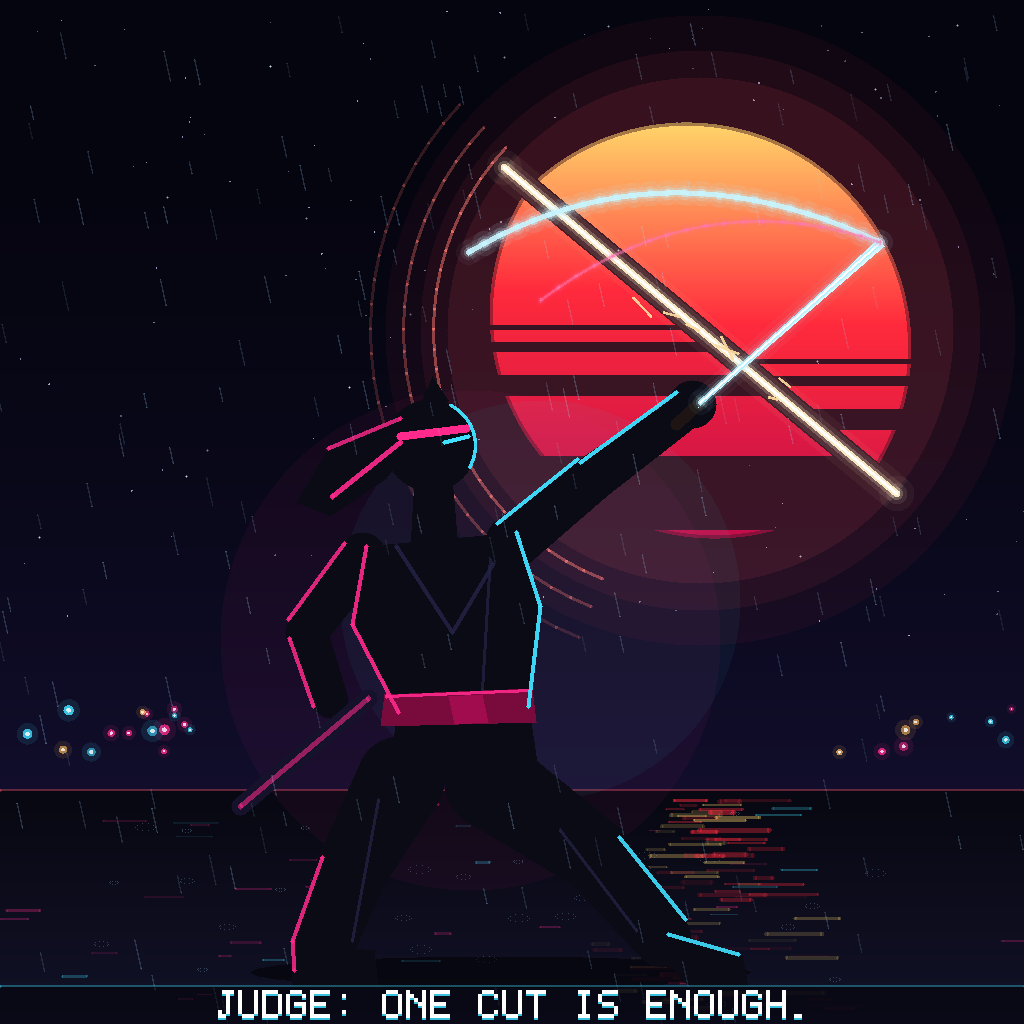
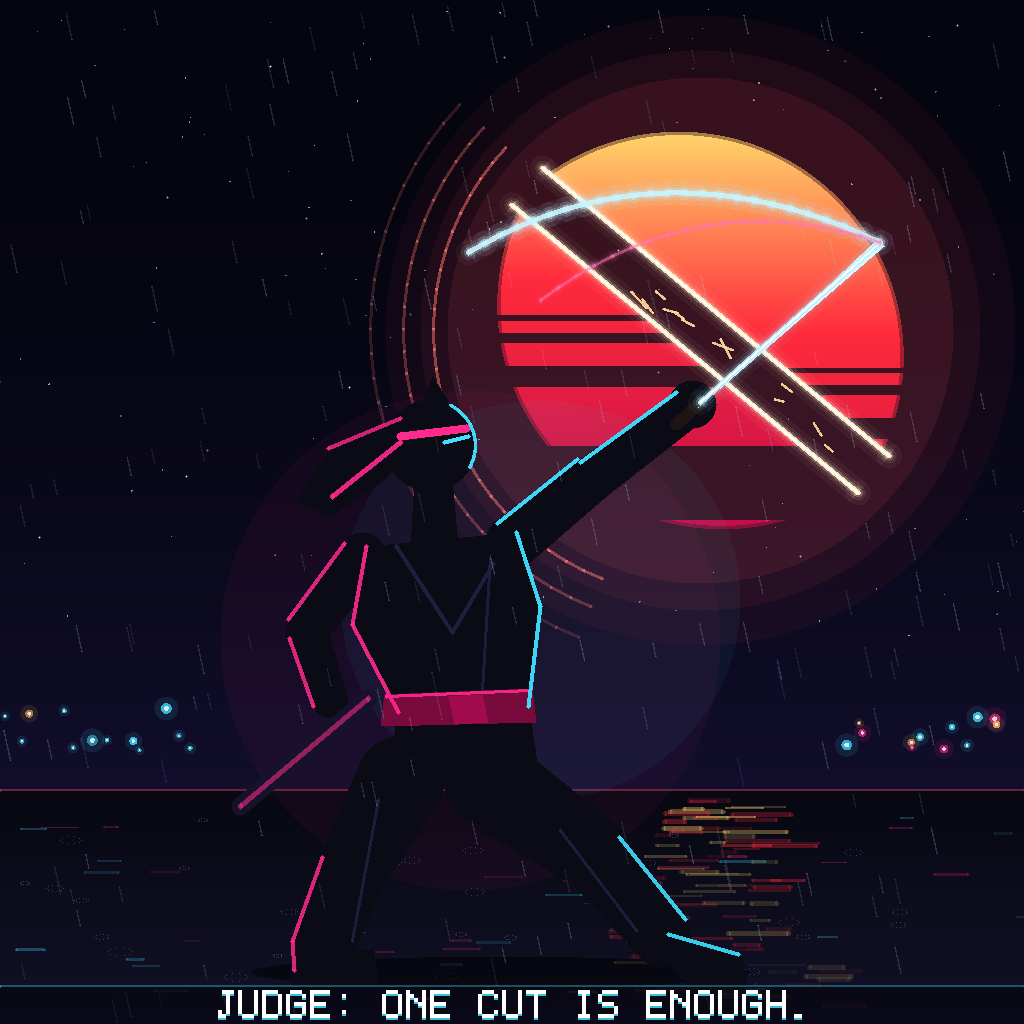
ai-excited-01: make the split sun read — wider dark gap, bright rims on both cut faces
The sun previously read as one whole disc with a slash line across it:
the bright centre glow filled the cut. Now the two halves are truly
separated: clip margin 12 -> 24px per side (48px dark-sky band between
the faces), half offset 22 -> 34px along the cut normal, the central
glow line replaced by a bright white-yellow rim on EACH cut face, and
12 light shards flying inside the dark gap (was 7). Hero, pose,
katana, text, rain, reflections, bokeh and palette untouched.

Render verified: 2 runs byte-identical, SHA-256
138657d41d07778aa09912e84ccd503d7c86800d8502264e8edc13bde2a650d6,
74800 bytes, 1024x1024, valid PNG. Split confirmed readable at full
size and at 300px.

diff --git a/main.ts b/main.ts
@@ -207,7 +207,7 @@ function drawSky() {
 const SUN = { cx: 700, cy: 330, r: 225 };
 const CUT_D = [0.77, 0.64];                 // cut direction
 const CUT_N = [0.64, -0.77];                // cut normal
-const CUT_OFF = 22;                         // half-gap between the halves
+const CUT_OFF = 34;                         // half-gap between the halves
 
 function sunColor(dx, dy, r) {
   // vertical gradient: yellow-white top -> red -> deep magenta bottom
@@ -234,9 +234,10 @@ function drawSunHalf(ox, oy, keepSign) {
       const d2 = dx * dx + dy * dy;
       if (d2 > r * r) continue;
       // clip to one side of the cut line (measured from the true centre),
-      // with a real gap so the sky shows through the split
+      // with a real gap so the sky shows through the split: 24px per side,
+      // a 48px band of dark sky between the two cut faces
       const s = (x - cx) * CUT_N[0] + (y - cy) * CUT_N[1];
-      if (s * keepSign < 12) continue;
+      if (s * keepSign < 24) continue;
       // synthwave slats: horizontal gaps, widening toward the bottom
       if (dy > r * 0.02) {
         const t = dy / r;
@@ -262,18 +263,22 @@ function drawSun() {
   const ox = CUT_N[0] * CUT_OFF, oy = CUT_N[1] * CUT_OFF;
   drawSunHalf(-ox, -oy, +1);
   drawSunHalf(ox, oy, -1);
-  // light leaking from the split: hot core line + glow along the cut
-  const lx0 = cx - CUT_D[0] * (r + 30), ly0 = cy - CUT_D[1] * (r + 30);
-  const lx1 = cx + CUT_D[0] * (r + 30), ly1 = cy + CUT_D[1] * (r + 30);
-  glowLine(lx0, ly0, lx1, ly1, 7, 255, 240, 200, 0.95);
-  thickLine(lx0, ly0, lx1, ly1, 3, 255, 255, 255, 1);
-  // a few bright shards flying off the cut
-  for (let i = 0; i < 7; i++) {
-    const t = rr(-0.8, 0.8);
-    const sx = cx + CUT_D[0] * t * r + CUT_N[0] * rr(6, 26) * (rnd() < 0.5 ? 1 : -1);
-    const sy = cy + CUT_D[1] * t * r + CUT_N[1] * rr(6, 26) * (rnd() < 0.5 ? 1 : -1);
+  // bright rims on BOTH cut faces — the split itself stays dark sky, so
+  // the two halves read as two separate pieces, not one disc with a slash
+  for (const sign of [1, -1]) {
+    const fx = cx + CUT_N[0] * 24 * sign, fy = cy + CUT_N[1] * 24 * sign;
+    const rx0 = fx - CUT_D[0] * r, ry0 = fy - CUT_D[1] * r;
+    const rx1 = fx + CUT_D[0] * r, ry1 = fy + CUT_D[1] * r;
+    glowLine(rx0, ry0, rx1, ry1, 5, 255, 240, 200, 0.95);
+    thickLine(rx0, ry0, rx1, ry1, 2, 255, 255, 255, 1);
+  }
+  // bright shards flying off the cut, inside the dark gap
+  for (let i = 0; i < 12; i++) {
+    const t = rr(-0.85, 0.85);
+    const sx = cx + CUT_D[0] * t * r + CUT_N[0] * rr(4, 22) * (rnd() < 0.5 ? 1 : -1);
+    const sy = cy + CUT_D[1] * t * r + CUT_N[1] * rr(4, 22) * (rnd() < 0.5 ? 1 : -1);
     const a = Math.atan2(CUT_D[1], CUT_D[0]) + rr(-0.5, 0.5);
-    const len = rr(8, 26);
+    const len = rr(8, 22);
     thickLine(sx, sy, sx + Math.cos(a) * len, sy + Math.sin(a) * len, 2.5, 255, 220, 160, 0.9);
   }
   // shockwave arcs radiating from the cut (lower-left side)
